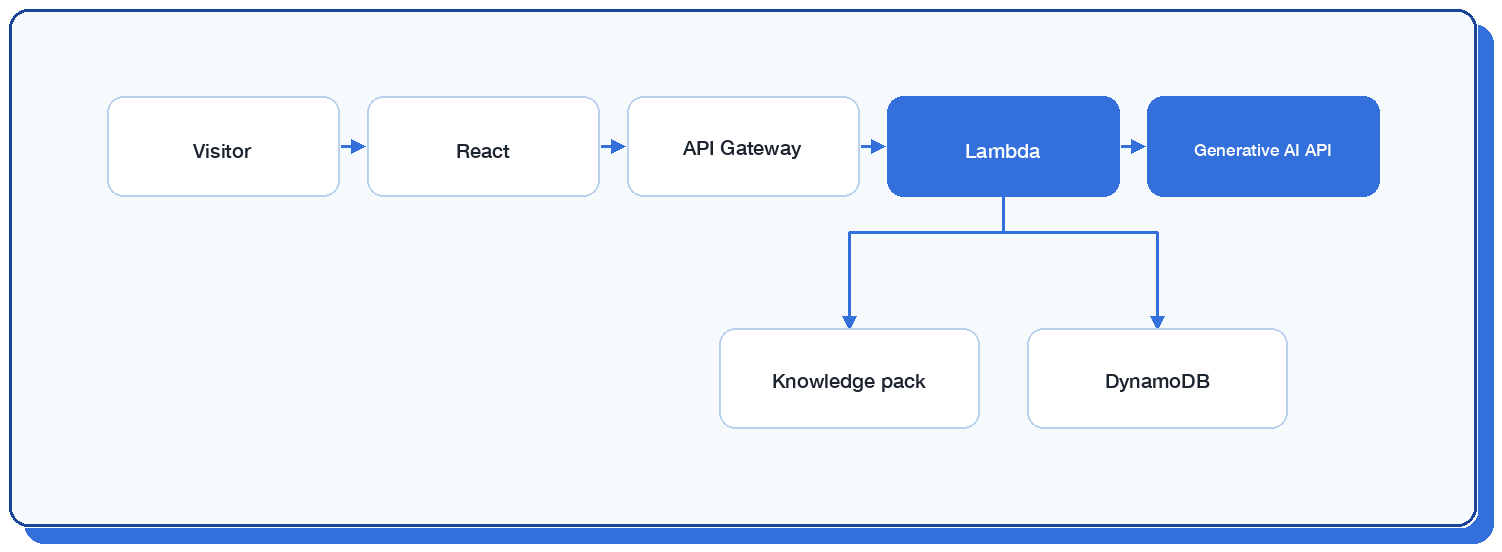
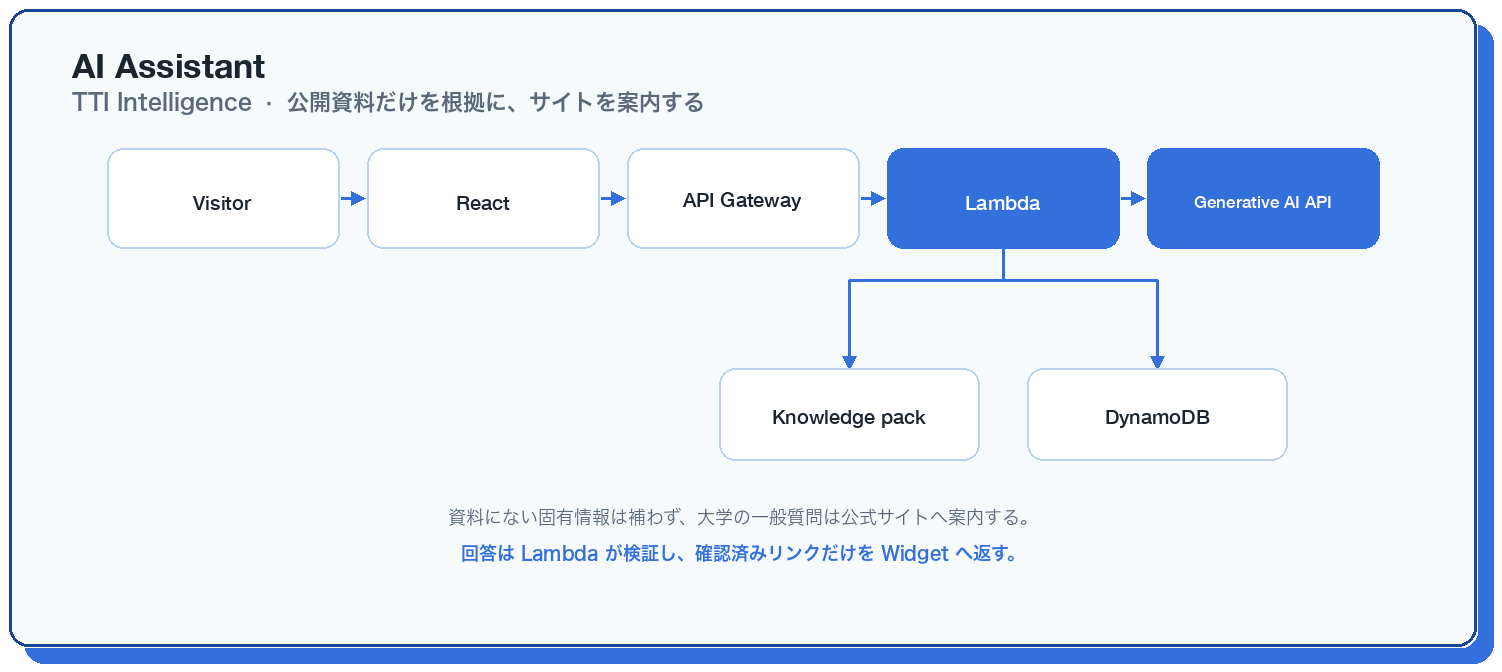
docs: drop the assistant paragraph and keep those notes on the diagram
The README repeated the diagram. The three lines that explain grounding stay on the figure.

diff --git a/README.md b/README.md
@@ -22,8 +22,6 @@ Toyota Technological Institute, 2025–
 
 <img src="assets/works/tti-framed.png" alt="TTI Intelligence" width="800">
 
-AI Assistant は、レビュー済みの knowledge pack と DynamoDB 上の公開コンテンツを Lambda で組み立て、Generative AI API に渡します。資料にないことは補わず、確認済みリンクだけを返します。
-
 <img src="assets/works/tti-assistant-architecture.png" alt="TTI Intelligence AI Assistant architecture" width="800">
 
 企画、UI、フロントエンド、バックエンド、AI、AWS、運用
